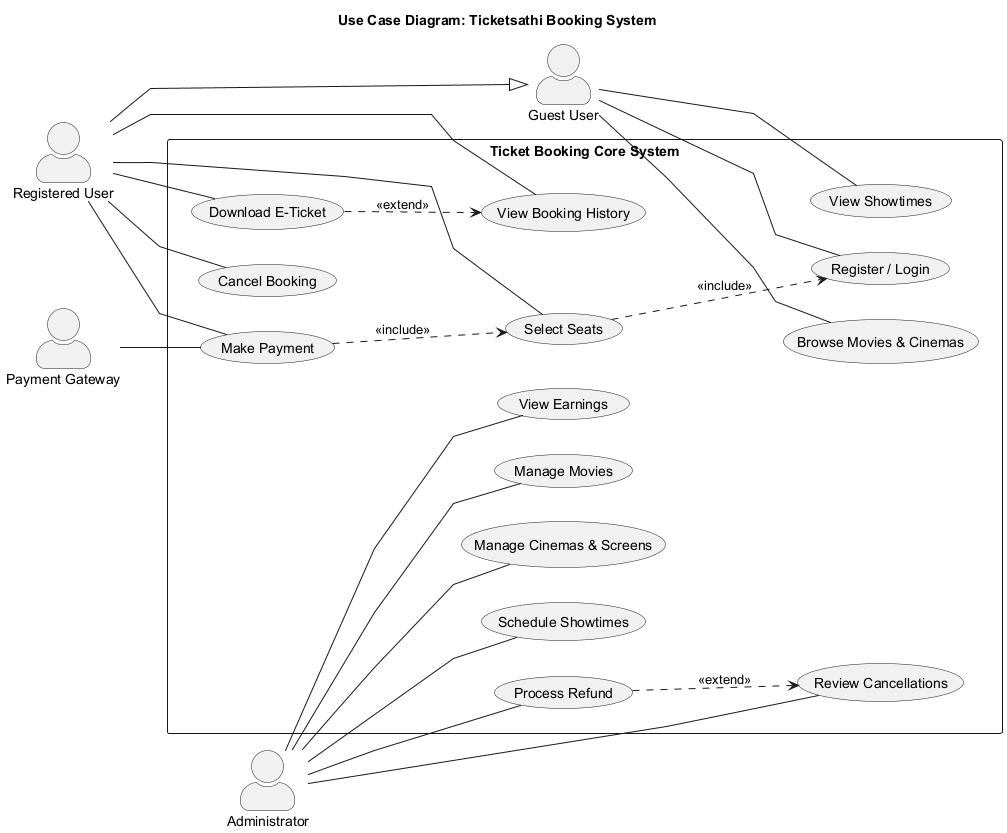
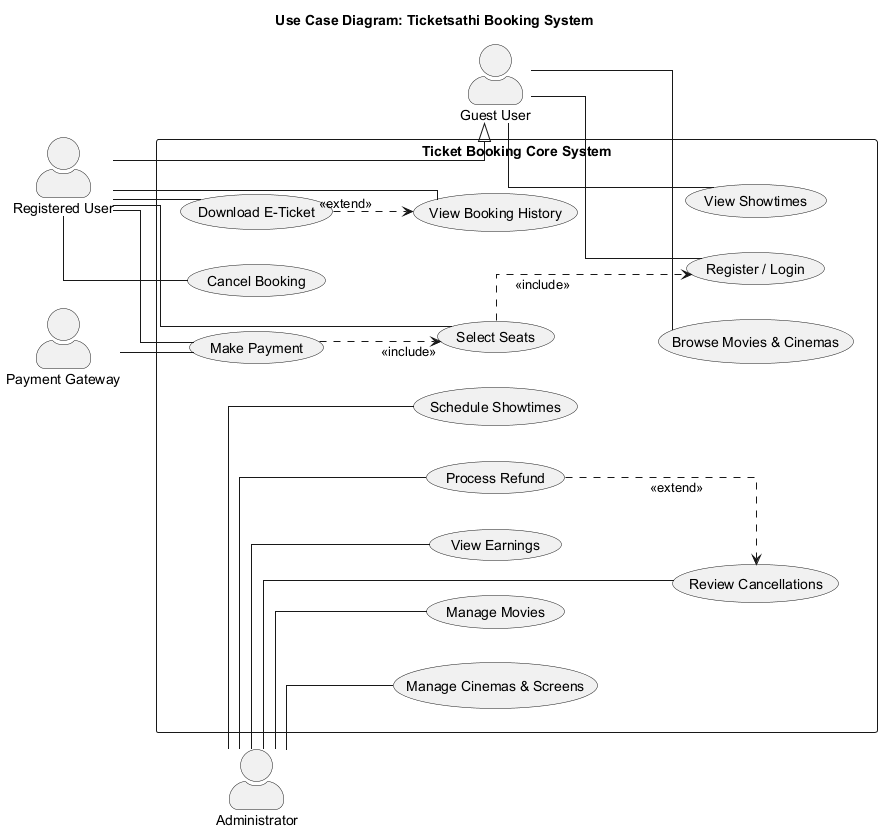
Improved seat selection and custom 404 page

diff --git a/booking/templates/admin/earnings_dashboard.html b/booking/templates/admin/earnings_dashboard.html
@@ -230,6 +230,18 @@
             </div>
         </div>
         <div class="module-box">
+            <h2>Revenue by Genre</h2>
+            <div class="module-content">
+                {% if genre_earnings %}
+                    <div class="chart-container">
+                        <canvas id="genreChart"></canvas>
+                    </div>
+                {% else %}
+                    <p class="no-data">No booking data available yet.</p>
+                {% endif %}
+            </div>
+        </div>
+        <div class="module-box">
             <h2>Revenue by Cinema</h2>
             <div class="module-content">
                 {% if cinema_earnings %}
@@ -350,11 +362,44 @@
         </div>
     </div>
 
+    <!-- Genre Table -->
+    <div class="module-box">
+        <h2>Revenue by Genre</h2>
+        <div class="module-content">
+            {% if genre_earnings %}
+            <table class="earnings-table">
+                <thead>
+                    <tr>
+                        <th style="width: 50px;">Rank</th>
+                        <th>Genre</th>
+                        <th>Bookings</th>
+                        <th>Revenue</th>
+                    </tr>
+                </thead>
+                <tbody>
+                    {% for item in genre_earnings %}
+                    <tr>
+                        <td>{{ forloop.counter }}</td>
+                        <td>{{ item.booking__showtime__movie__genre }}</td>
+                        <td>{{ item.booking_count }}</td>
+                        <td class="revenue">Rs. {{ item.revenue|floatformat:2 }}</td>
+                    </tr>
+                    {% endfor %}
+                </tbody>
+            </table>
+            {% else %}
+                <p class="no-data">No genre earnings data available yet.</p>
+            {% endif %}
+        </div>
+    </div>
+
 </div>
 
     <!-- Data for JavaScript (Linter-Safe Method) -->
     {{ movie_labels|json_script:"movie-labels" }}
     {{ movie_data|json_script:"movie-data" }}
+    {{ genre_labels|json_script:"genre-labels" }}
+    {{ genre_data|json_script:"genre-data" }}
     {{ cinema_labels|json_script:"cinema-labels" }}
     {{ cinema_data|json_script:"cinema-data" }}
     {{ hourly_labels|json_script:"hourly-labels" }}
@@ -371,13 +416,15 @@
             // 1. Fetch data from the DOM (Pure valid JS)
             const movieLabels = getJsonData('movie-labels');
             const movieData = getJsonData('movie-data');
+            const genreLabels = getJsonData('genre-labels');
+            const genreData = getJsonData('genre-data');
             const cinemaLabels = getJsonData('cinema-labels');
             const cinemaData = getJsonData('cinema-data');
             const hourlyLabels = getJsonData('hourly-labels');
             const hourlyData = getJsonData('hourly-data');
 
             // Destroy existing charts
-            ['movieChart', 'cinemaChart', 'hourlyChart'].forEach(id => {
+            ['movieChart', 'genreChart', 'cinemaChart', 'hourlyChart'].forEach(id => {
                 const chart = Chart.getChart(id);
                 if (chart) chart.destroy();
             });
@@ -427,6 +474,29 @@
                         }]
                     },
                     options: chartOptions
+                });
+            }
+
+            // Genre Chart
+            if (genreLabels.length > 0) {
+                const genreOptions = Object.assign({}, chartOptions);
+                genreOptions.plugins = Object.assign({}, chartOptions.plugins, {
+                    legend: { display: true, position: 'bottom', labels: { color: textColor, padding: 16 } }
+                });
+                delete genreOptions.scales;
+
+                new Chart(document.getElementById('genreChart'), {
+                    type: 'pie',
+                    data: {
+                        labels: genreLabels,
+                        datasets: [{
+                            data: genreData,
+                            backgroundColor: CHART_COLORS.slice(5, 5 + genreLabels.length),
+                            borderWidth: 2,
+                            borderColor: bgColor,
+                        }]
+                    },
+                    options: genreOptions
                 });
             }
 

diff --git a/booking/templates/404.html b/booking/templates/404.html
@@ -1,0 +1,39 @@
+{% extends "booking/base.html" %}
+{% load static %}
+
+{% block title %}404 - Page Not Found | Ticket Sathi{% endblock %}
+
+{% block content %}
+<div class="container d-flex align-items-center justify-content-center" style="min-height: 70vh;">
+    <div class="text-center">
+        <div class="mb-4">
+            <i class="fas fa-film fa-5x text-primary mb-3 animated pulse infinite" style="animation-duration: 2s;"></i>
+        </div>
+        <h1 class="display-1 fw-bold text-white mb-0">404</h1>
+        <h2 class="h3 fw-semibold text-secondary mb-4">Scene Not Found</h2>
+        <p class="text-muted mb-5 mx-auto" style="max-width: 500px;">
+            It looks like this scene was cut from the final edit. Or maybe the projector jammed? Either way, the page you're looking for isn't here.
+        </p>
+        <div class="d-flex gap-3 justify-content-center">
+            <a href="{% url 'home' %}" class="btn btn-primary px-4 py-2 fw-semibold">
+                <i class="fas fa-home me-2"></i> Go Back Home
+            </a>
+            <a href="{% url 'movies' %}" class="btn btn-outline-secondary px-4 py-2 fw-semibold">
+                <i class="fas fa-search me-2"></i> Explore Movies
+            </a>
+        </div>
+    </div>
+</div>
+
+<style>
+    @keyframes pulse {
+        0% { transform: scale(1); opacity: 0.8; }
+        50% { transform: scale(1.1); opacity: 1; }
+        100% { transform: scale(1); opacity: 0.8; }
+    }
+    .animated.pulse {
+        animation-name: pulse;
+        display: inline-block;
+    }
+</style>
+{% endblock %}

diff --git a/booking/templates/booking/select_seats.html b/booking/templates/booking/select_seats.html
@@ -90,13 +90,6 @@
         background-color: #2ecc71;
         box-shadow: 0 8px 15px rgba(46, 204, 113, 0.3);
     }
-    
-    .seat.occupied {
-        background-color: var(--secondary-accent);
-        cursor: not-allowed;
-        opacity: 0.5;
-        box-shadow: none;
-    }
 
     /* Seat Types */
     .seat.regular {
@@ -127,6 +120,12 @@
         background-color: inherit;
     }
     
+    .seat.occupied {
+        background-color: var(--secondary-accent);
+        cursor: not-allowed;
+        opacity: 0.5;
+        box-shadow: none;
+    }
     @keyframes popIn {
         0% { transform: scale(0.8); }
         50% { transform: scale(1.2); }

diff --git a/booking/static/booking/css/style.css b/booking/static/booking/css/style.css
@@ -1,3 +1,4 @@
+
 /* Global Design System - Ticket Sathi */
 @import url("https://fonts.googleapis.com/css2?family=Great+Vibes&family=Inter:wght@300;400;500;600&family=Montserrat:wght@400;500;600;700;800&display=swap");
 

diff --git a/booking/admin.py b/booking/admin.py
@@ -95,6 +95,13 @@ def earnings_dashboard(request):
         booking_count=Count('booking', distinct=True)
     ).order_by('-revenue')
 
+    genre_earnings = payments.values(
+        'booking__showtime__movie__genre'
+    ).annotate(
+        revenue=Sum('amount'),
+        booking_count=Count('booking', distinct=True)
+    ).order_by('-revenue')
+
     # 5. HOURLY PEAK PERFORMANCE (Python-side for DB compatibility)
     # Get revenue by hour of showtime
     hourly_data_raw = payments.values('booking__showtime__start_time__hour').annotate(
@@ -124,10 +131,13 @@ def earnings_dashboard(request):
         'cinema_earnings': list(cinema_earnings),
         'screen_earnings': list(screen_earnings),
         'movie_earnings': list(movie_earnings),
+        'genre_earnings': list(genre_earnings),
         'hourly_labels': hourly_labels,
         'hourly_data': hourly_values,
         'movie_labels': [m['booking__showtime__movie__title'] for m in movie_earnings],
         'movie_data': [float(m['revenue']) for m in movie_earnings],
+        'genre_labels': [g['booking__showtime__movie__genre'] for g in genre_earnings],
+        'genre_data': [float(g['revenue']) for g in genre_earnings],
         'cinema_labels': [c['booking__showtime__screen__cinema__name'] for c in cinema_earnings],
         'cinema_data': [float(c['revenue']) for c in cinema_earnings],
         'is_nav_sidebar_enabled': True,

diff --git a/booking/views.py b/booking/views.py
@@ -654,3 +654,5 @@ def coming_soon(request):
     movies = Movie.objects.filter(is_now_showing=False, release_date__gt=timezone.now()).order_by('release_date')
     return render(request, 'booking/coming_soon.html', {'movies': movies})
 
+def custom_404_view(request, exception):
+    return render(request, '404.html', status=404)

diff --git a/cinema_booking/urls.py b/cinema_booking/urls.py
@@ -8,5 +8,7 @@ urlpatterns = [
     path('', include('booking.urls')),
 ]
 
+handler404 = 'booking.views.custom_404_view'
+
 if settings.DEBUG:
     urlpatterns += static(settings.MEDIA_URL, document_root=settings.MEDIA_ROOT)
